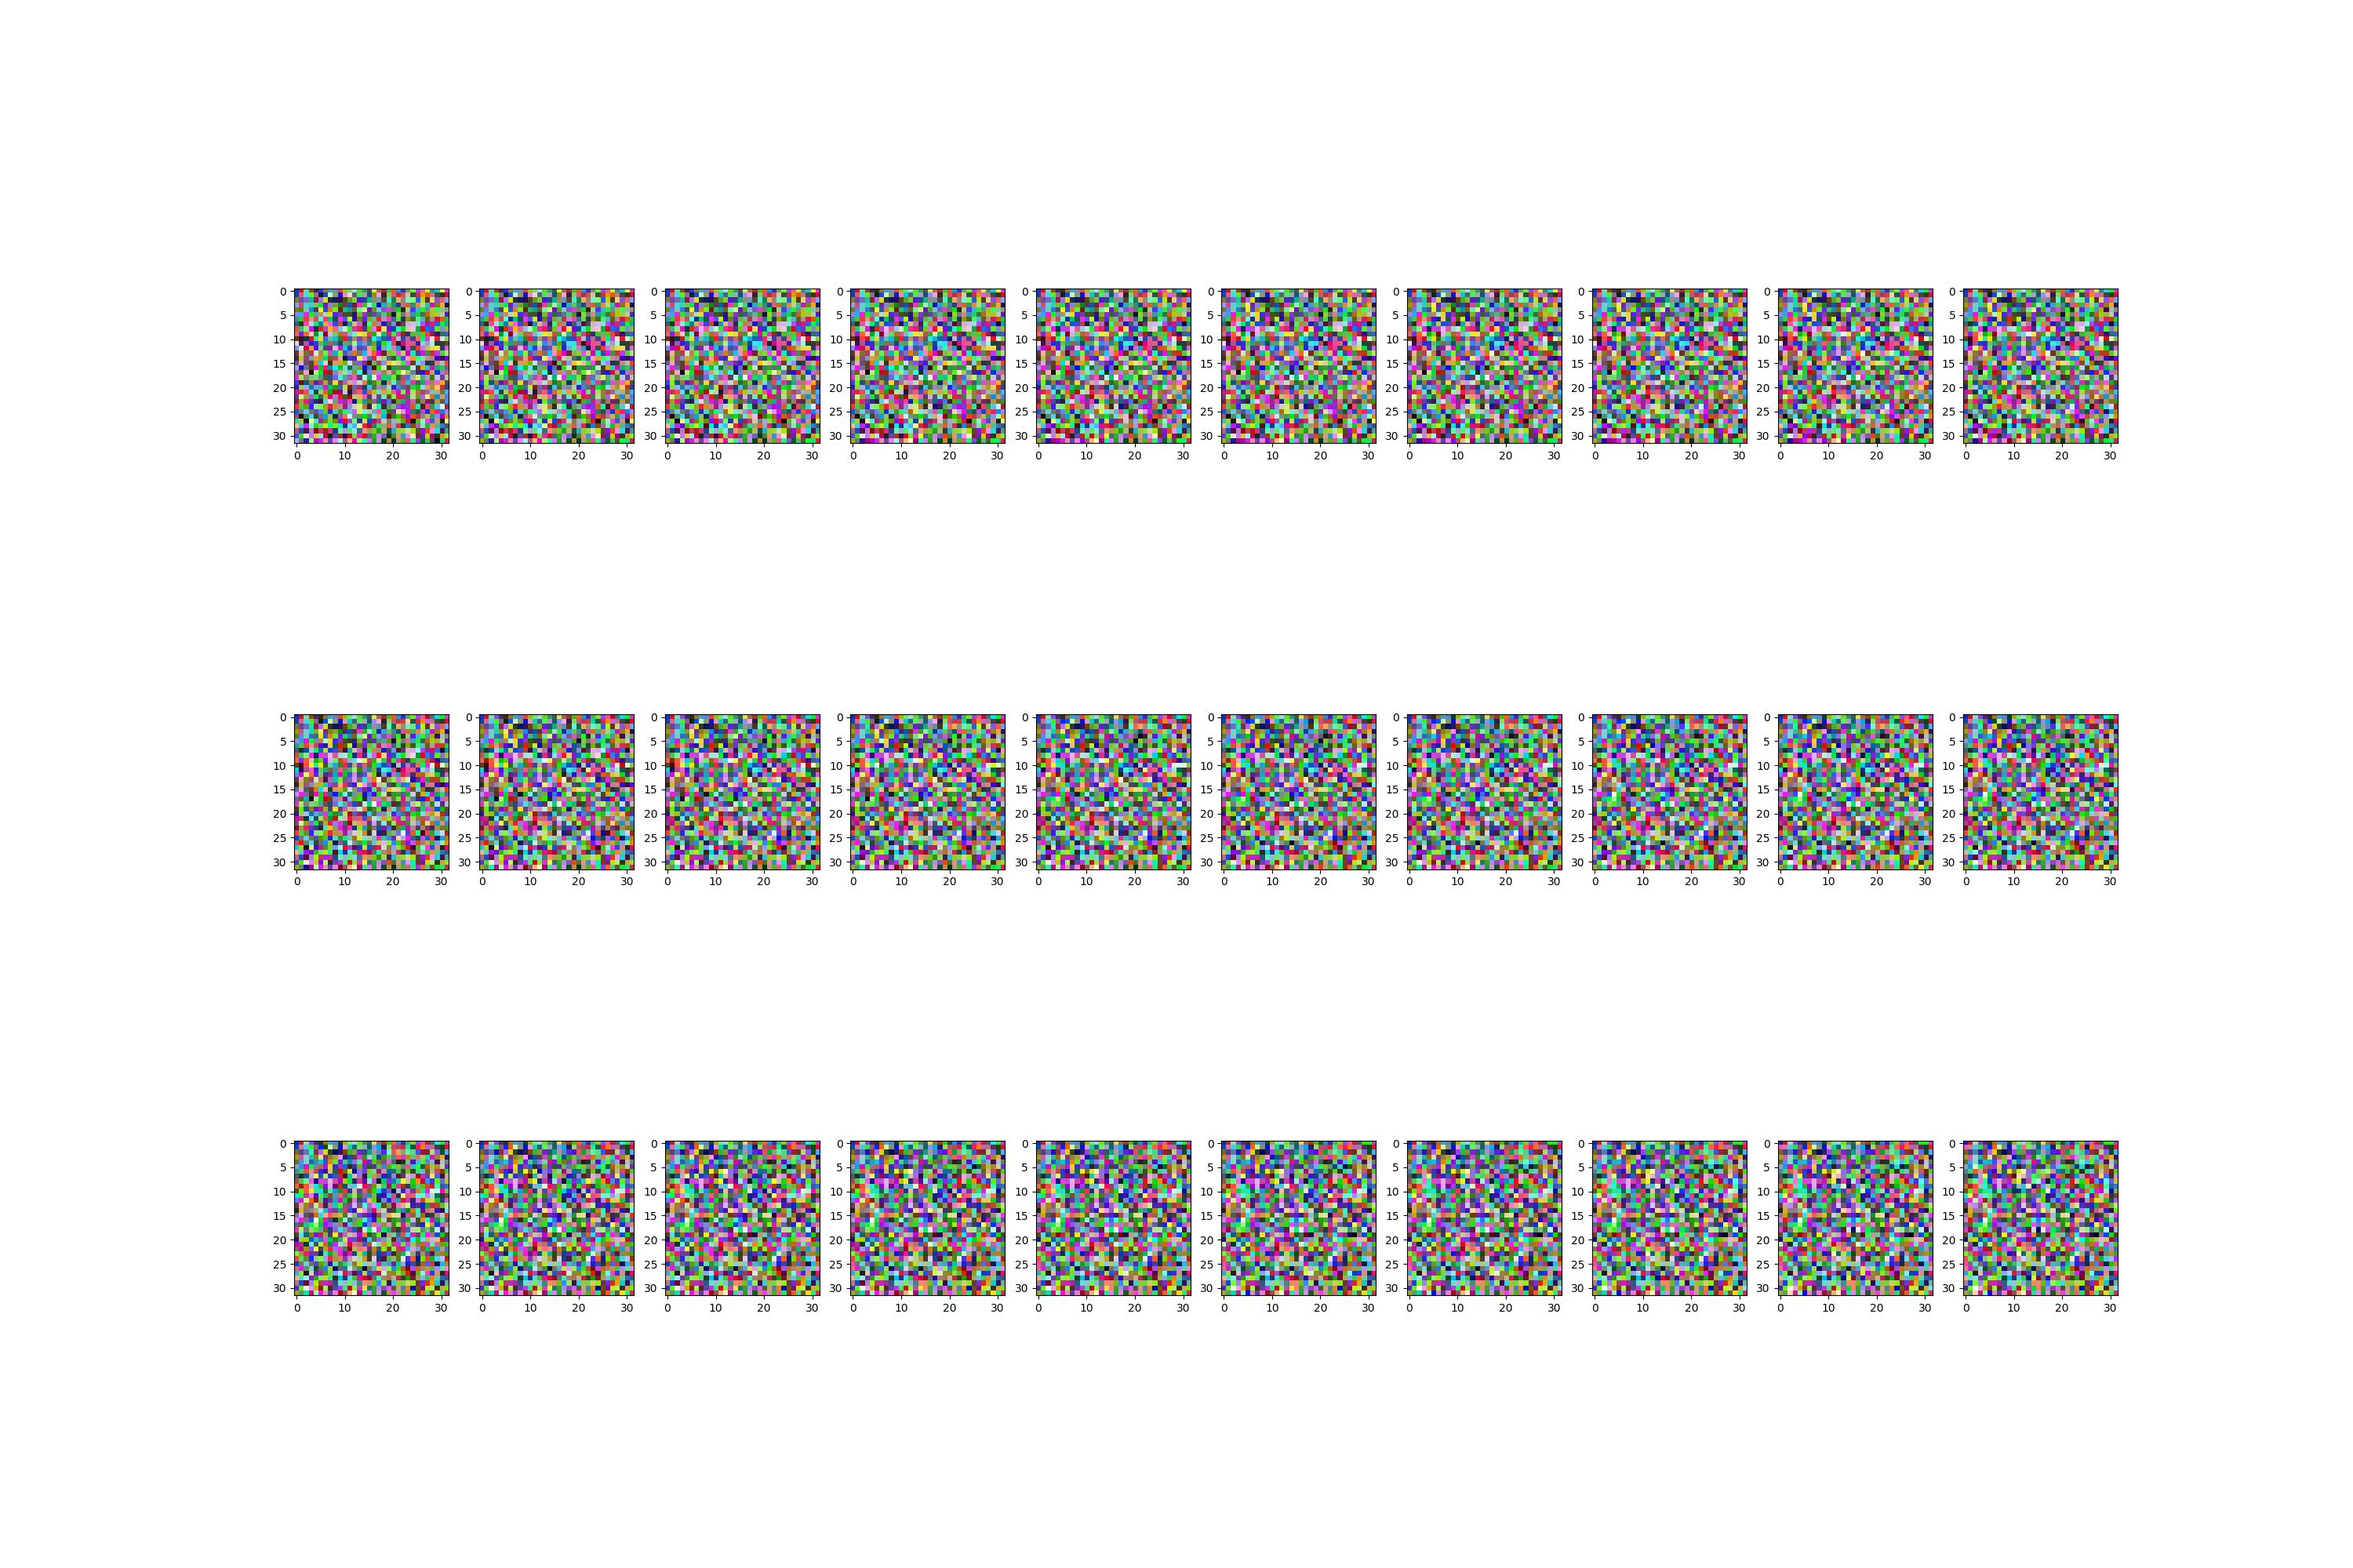
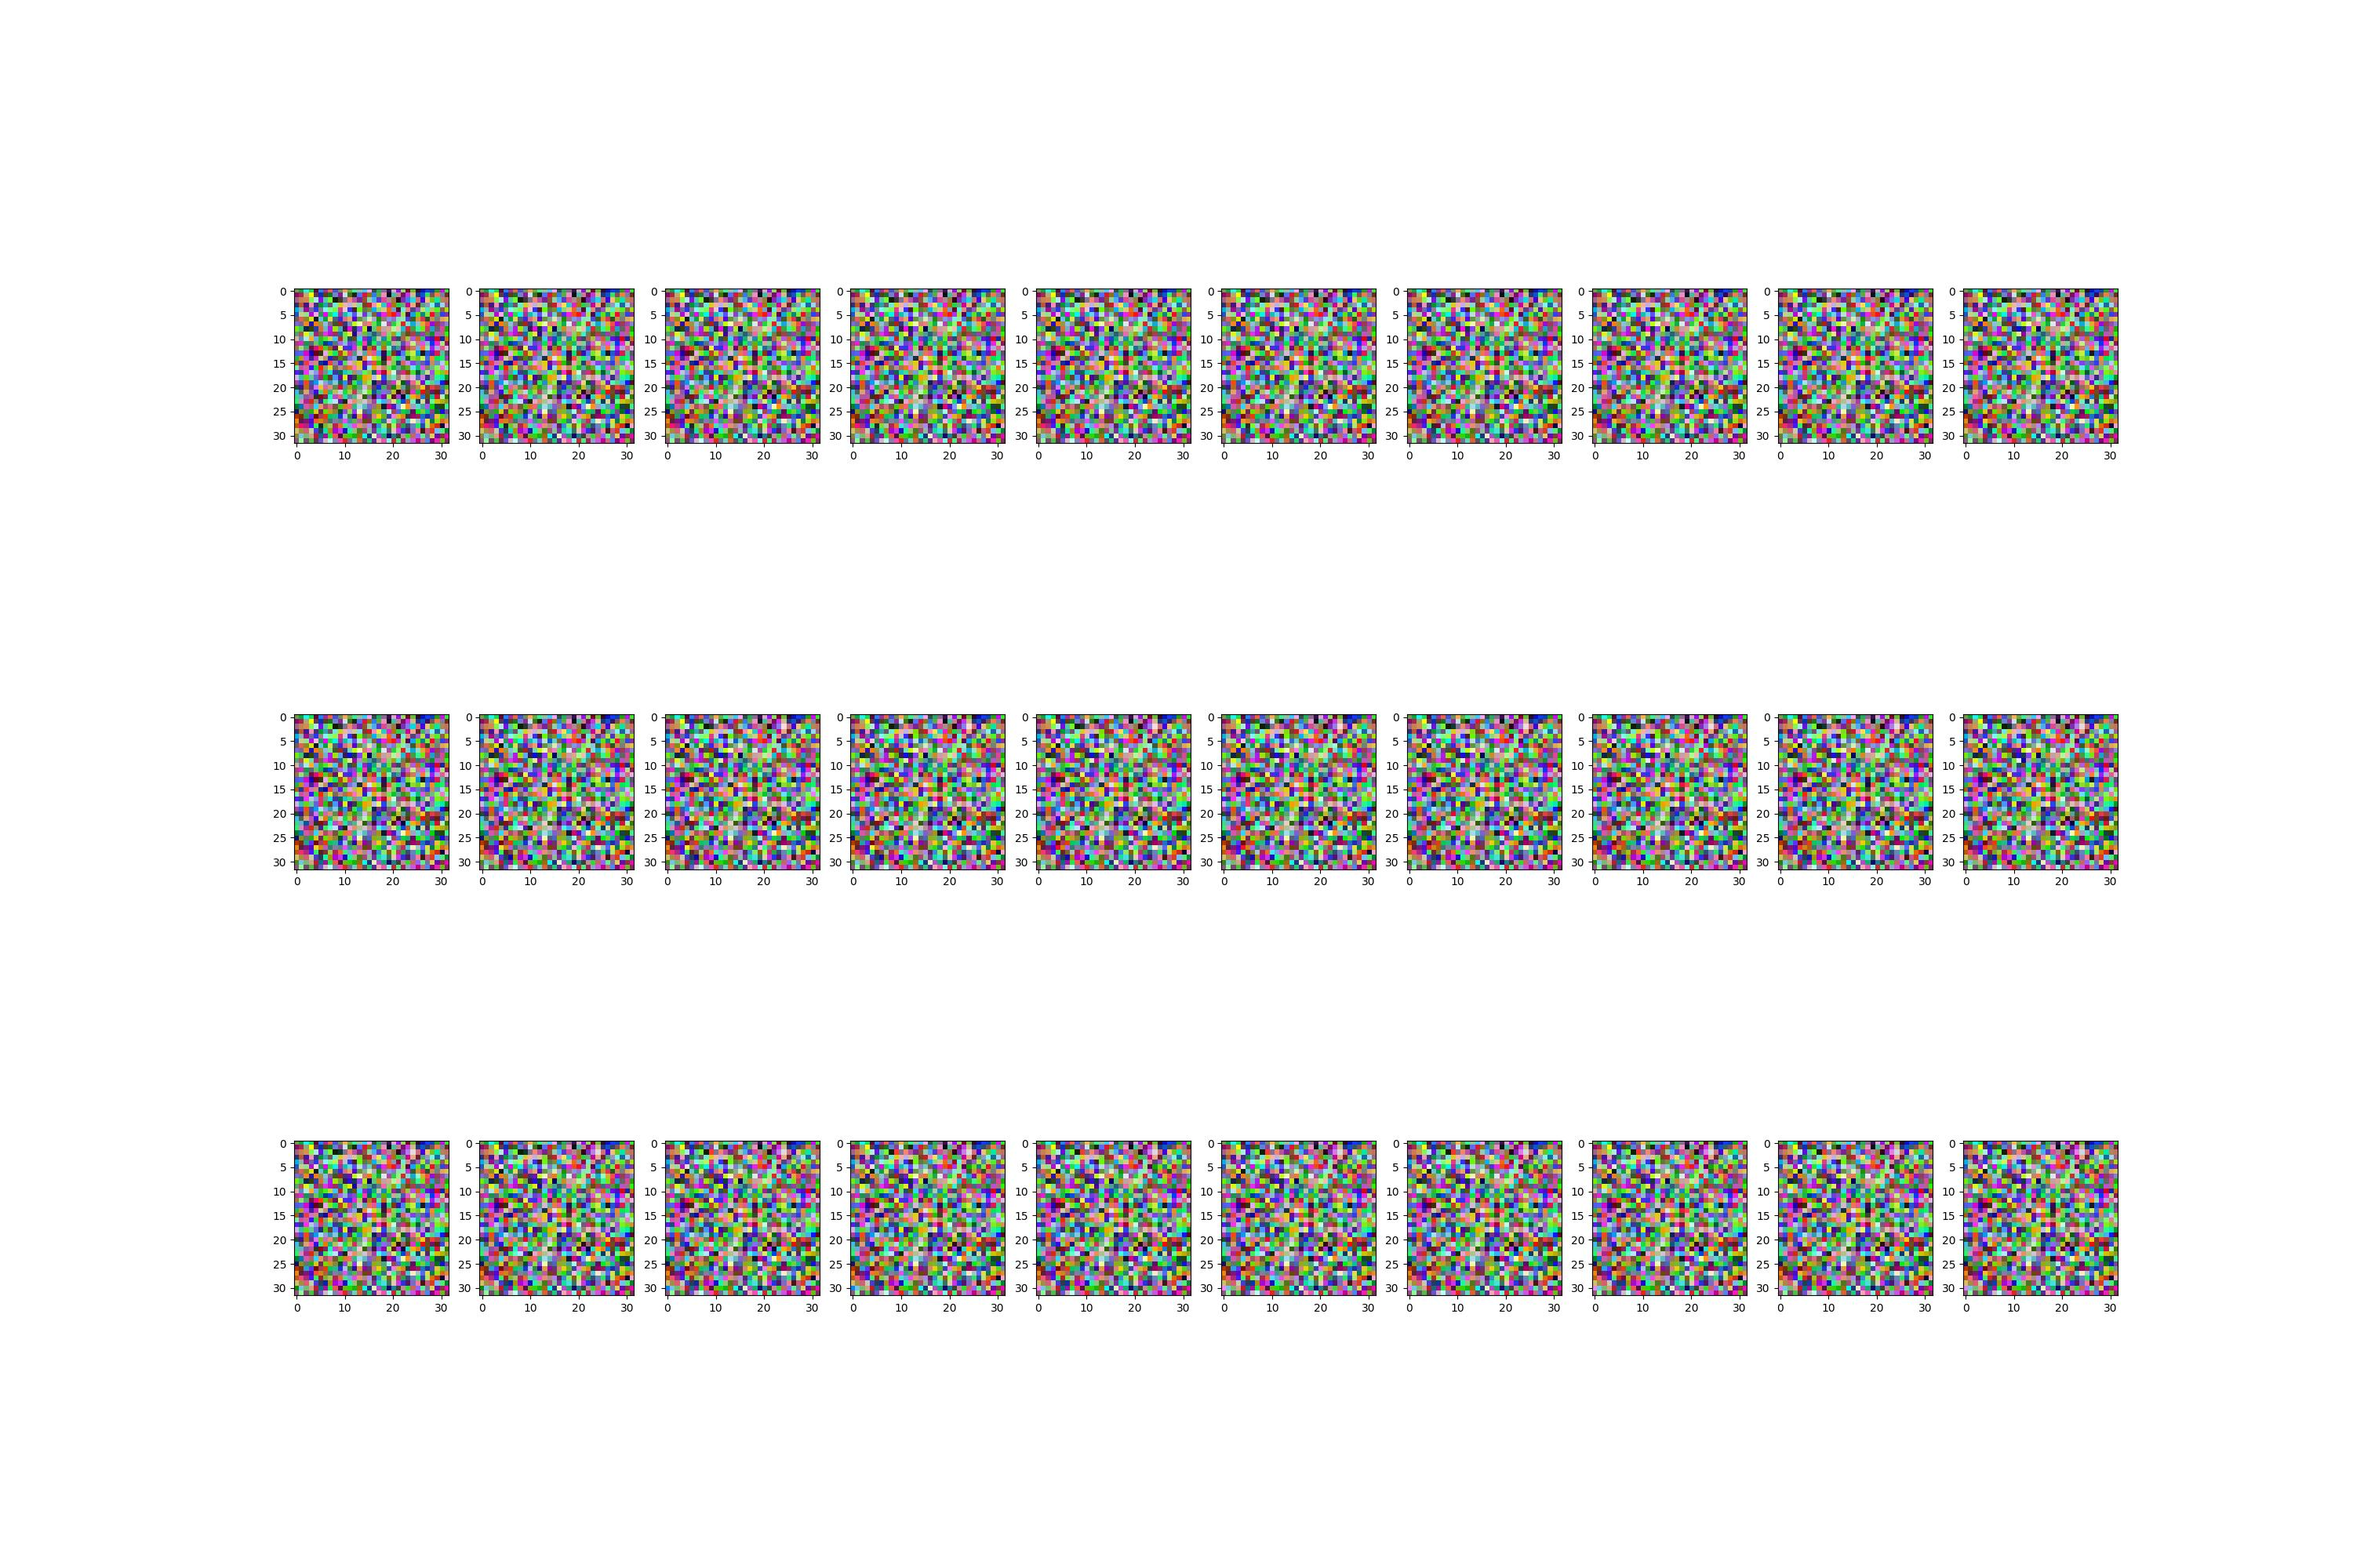
two different alexnet

Changed region(s): [[0.124, 0.713, 0.899, 0.837], [0.124, 0.434, 0.899, 0.558], [0.124, 0.186, 0.899, 0.31]]

diff --git a/models/vision.py b/models/vision.py
@@ -43,48 +43,56 @@ class LeNet(nn.Module):
 
 
 
-# class AlexNet(nn.Module):
-#     def __init__(self,num_classes=3, input_size = 32):
-#         super(AlexNet, self).__init__()
-#         self.features=nn.Sequential(
-#             nn.Conv2d(3,48, kernel_size=11, stride=4, padding=2),
-#             nn.ReLU(inplace=True),
-#             nn.MaxPool2d(kernel_size=3,stride=2),
-#             nn.Conv2d(48,128, kernel_size=5, padding=2),
-#             nn.ReLU(inplace=True),
-#             nn.MaxPool2d(kernel_size=3,stride=2),
-#             nn.Conv2d(128,192,kernel_size=3,stride=1,padding=1),
-#             nn.ReLU(inplace=True),
-#             nn.Conv2d(192,192,kernel_size=3,stride=1,padding=1),
-#             nn.ReLU(inplace=True),
-#             nn.Conv2d(192,128,kernel_size=3,stride=1,padding=1),
-#             nn.ReLU(inplace=True),
-#             nn.MaxPool2d(kernel_size=3,stride=2),
-#         )
+class AlexNet_Imagenet(nn.Module):
+    def __init__(self,num_classes=3, input_size = 32):
+        super(AlexNet_Imagenet, self).__init__()
+        self.features = nn.Sequential(
+            nn.Conv2d(3, 64, kernel_size=11, stride=4, padding=2),
+            nn.ReLU(inplace=True),
+            nn.MaxPool2d(kernel_size=3, stride=2),
+            nn.Conv2d(64, 192, kernel_size=5, padding=2),
+            nn.ReLU(inplace=True),
+            nn.MaxPool2d(kernel_size=3, stride=2),
+            nn.Conv2d(192, 384, kernel_size=3, padding=1),
+            nn.ReLU(inplace=True),
+            nn.Conv2d(384, 256, kernel_size=3, padding=1),
+            nn.ReLU(inplace=True),
+            nn.Conv2d(256, 256, kernel_size=3, padding=1),
+            nn.ReLU(inplace=True),
+            nn.MaxPool2d(kernel_size=3, stride=2),
+        )
+        self.avgpool = nn.AdaptiveAvgPool2d((6, 6))
 
-#         self.classifier=nn.Sequential(
-            
-#             nn.Linear(128 * 6 * 6, 2048),
-#             nn.ReLU(inplace=True),
-#             nn.Dropout(),
-#             nn.Linear(2048, 2048),
-#             nn.ReLU(inplace=True),
-#             nn.Dropout(),
-#             nn.Linear(2048, num_classes),
-#         )
+        self.classifier=nn.Sequential(
 
-#     def forward(self,x):
-#         #print(x.shape)
-#         x=self.features(x)
-#         x=torch.flatten(x,start_dim=1)
+            nn.Dropout(p=0.5),
+            nn.Linear(256 * 6 * 6, 4096),
+            nn.ReLU(inplace=True),
+            nn.Dropout(p=0.5),
+            nn.Linear(4096, 4096),
+            nn.ReLU(inplace=True),
+            nn.Linear(4096, num_classes),
+              
+            # nn.Linear(128 * 6 * 6, 2048),
+            # nn.ReLU(inplace=True),
+            # nn.Dropout(),
+            # nn.Linear(2048, 2048),
+            # nn.ReLU(inplace=True),
+            # nn.Dropout(),
+            # nn.Linear(2048, num_classes),
+        )
+
+    def forward(self,x):
+        x = self.features(x)
+        x = self.avgpool(x)
+        x = torch.flatten(x, 1)
+        x = self.classifier(x)
        
-#         x=self.classifier(x)
-       
-#         return x
+        return x
 
 
 
-class AlexNet(nn.Module):
+class AlexNet_Cifar(nn.Module):
 
     def __init__(self, num_classes, input_size = 32):
         super().__init__()
@@ -96,8 +104,8 @@ class AlexNet(nn.Module):
             2: 192,
             4: 384,
             5: 256,
-            6: 256
-        }
+            6: 256 
+            }
         kp = {
             0: (5, 2),
             2: (5, 2),

diff --git a/main_multi_epoch.py b/main_multi_epoch.py
@@ -15,7 +15,7 @@ from torch.utils.data import DataLoader
 from utils.training import local_update, test, accuracy, fed_avg
 
 from skimage.exposure import rescale_intensity
-from models.vision import LeNet, AlexNet, ResNet18, weights_init
+from models.vision import LeNet, AlexNet_Imagenet, AlexNet_Cifar, ResNet18, weights_init
 from utils.args import parser_args
 from utils.datasets import get_data
 from utils.sampling import label_to_onehot, cross_entropy_for_onehot
@@ -90,7 +90,10 @@ if __name__ == '__main__':
     if args.model == "lenet":
         net = LeNet(input_size=input_size).to(device)
     if args.model == "alexnet":
-        net = AlexNet(num_classes=num_classes, input_size = input_size).to(device)
+        if args.dataset == "imagenet":
+            net = AlexNet_Imagenet(num_classes=num_classes, input_size = input_size).to(device)
+        else: 
+            net = AlexNet_Cifar(num_classes=num_classes, input_size = input_size).to(device)
     if args.model == "resnet":
         net = ResNet18(num_classes=num_classes, input_size=input_size).to(device)
 

diff --git a/utils/datasets.py b/utils/datasets.py
@@ -105,7 +105,7 @@ def get_data(dataset, data_root, iid, num_users):
             return datasets.ImageFolder(root = root,
                                     transform = transform,
                                     target_transform = target_transform)
-        transform = transforms.Compose([ transforms.ToTensor(), normalize, Resize((3, 224, 224)) ])
+        transform = transforms.Compose([ transforms.ToTensor(),  Resize((3, 224, 224)), normalize ])
 
         train_set = get_imagenet(root=root, train=True, transform = transform) #, target_transform= None)
         test_set = get_imagenet(root=root, train=False, transform = transform) #, target_transform= None) 

diff --git a/utils/training.py b/utils/training.py
@@ -43,7 +43,12 @@ def local_update(train_ldr, model, lr):
         device = "cuda"
     # optimizer = torch.optim.SGD(model.parameters(), lr, 
     #                         momentum=0.9,
-    #                         weight_decay=0.0005) 
+    #                         weight_decay=0.0005)
+
+    # optimizer = torch.optim.SGD(model.parameters(), 0.01, 
+    #                         momentum=0.9,
+    #                         weight_decay=0.0005)
+     
     optimizer = torch.optim.Adam(model.parameters(),
                 0.001,
                 betas=(0.9, 0.999),
